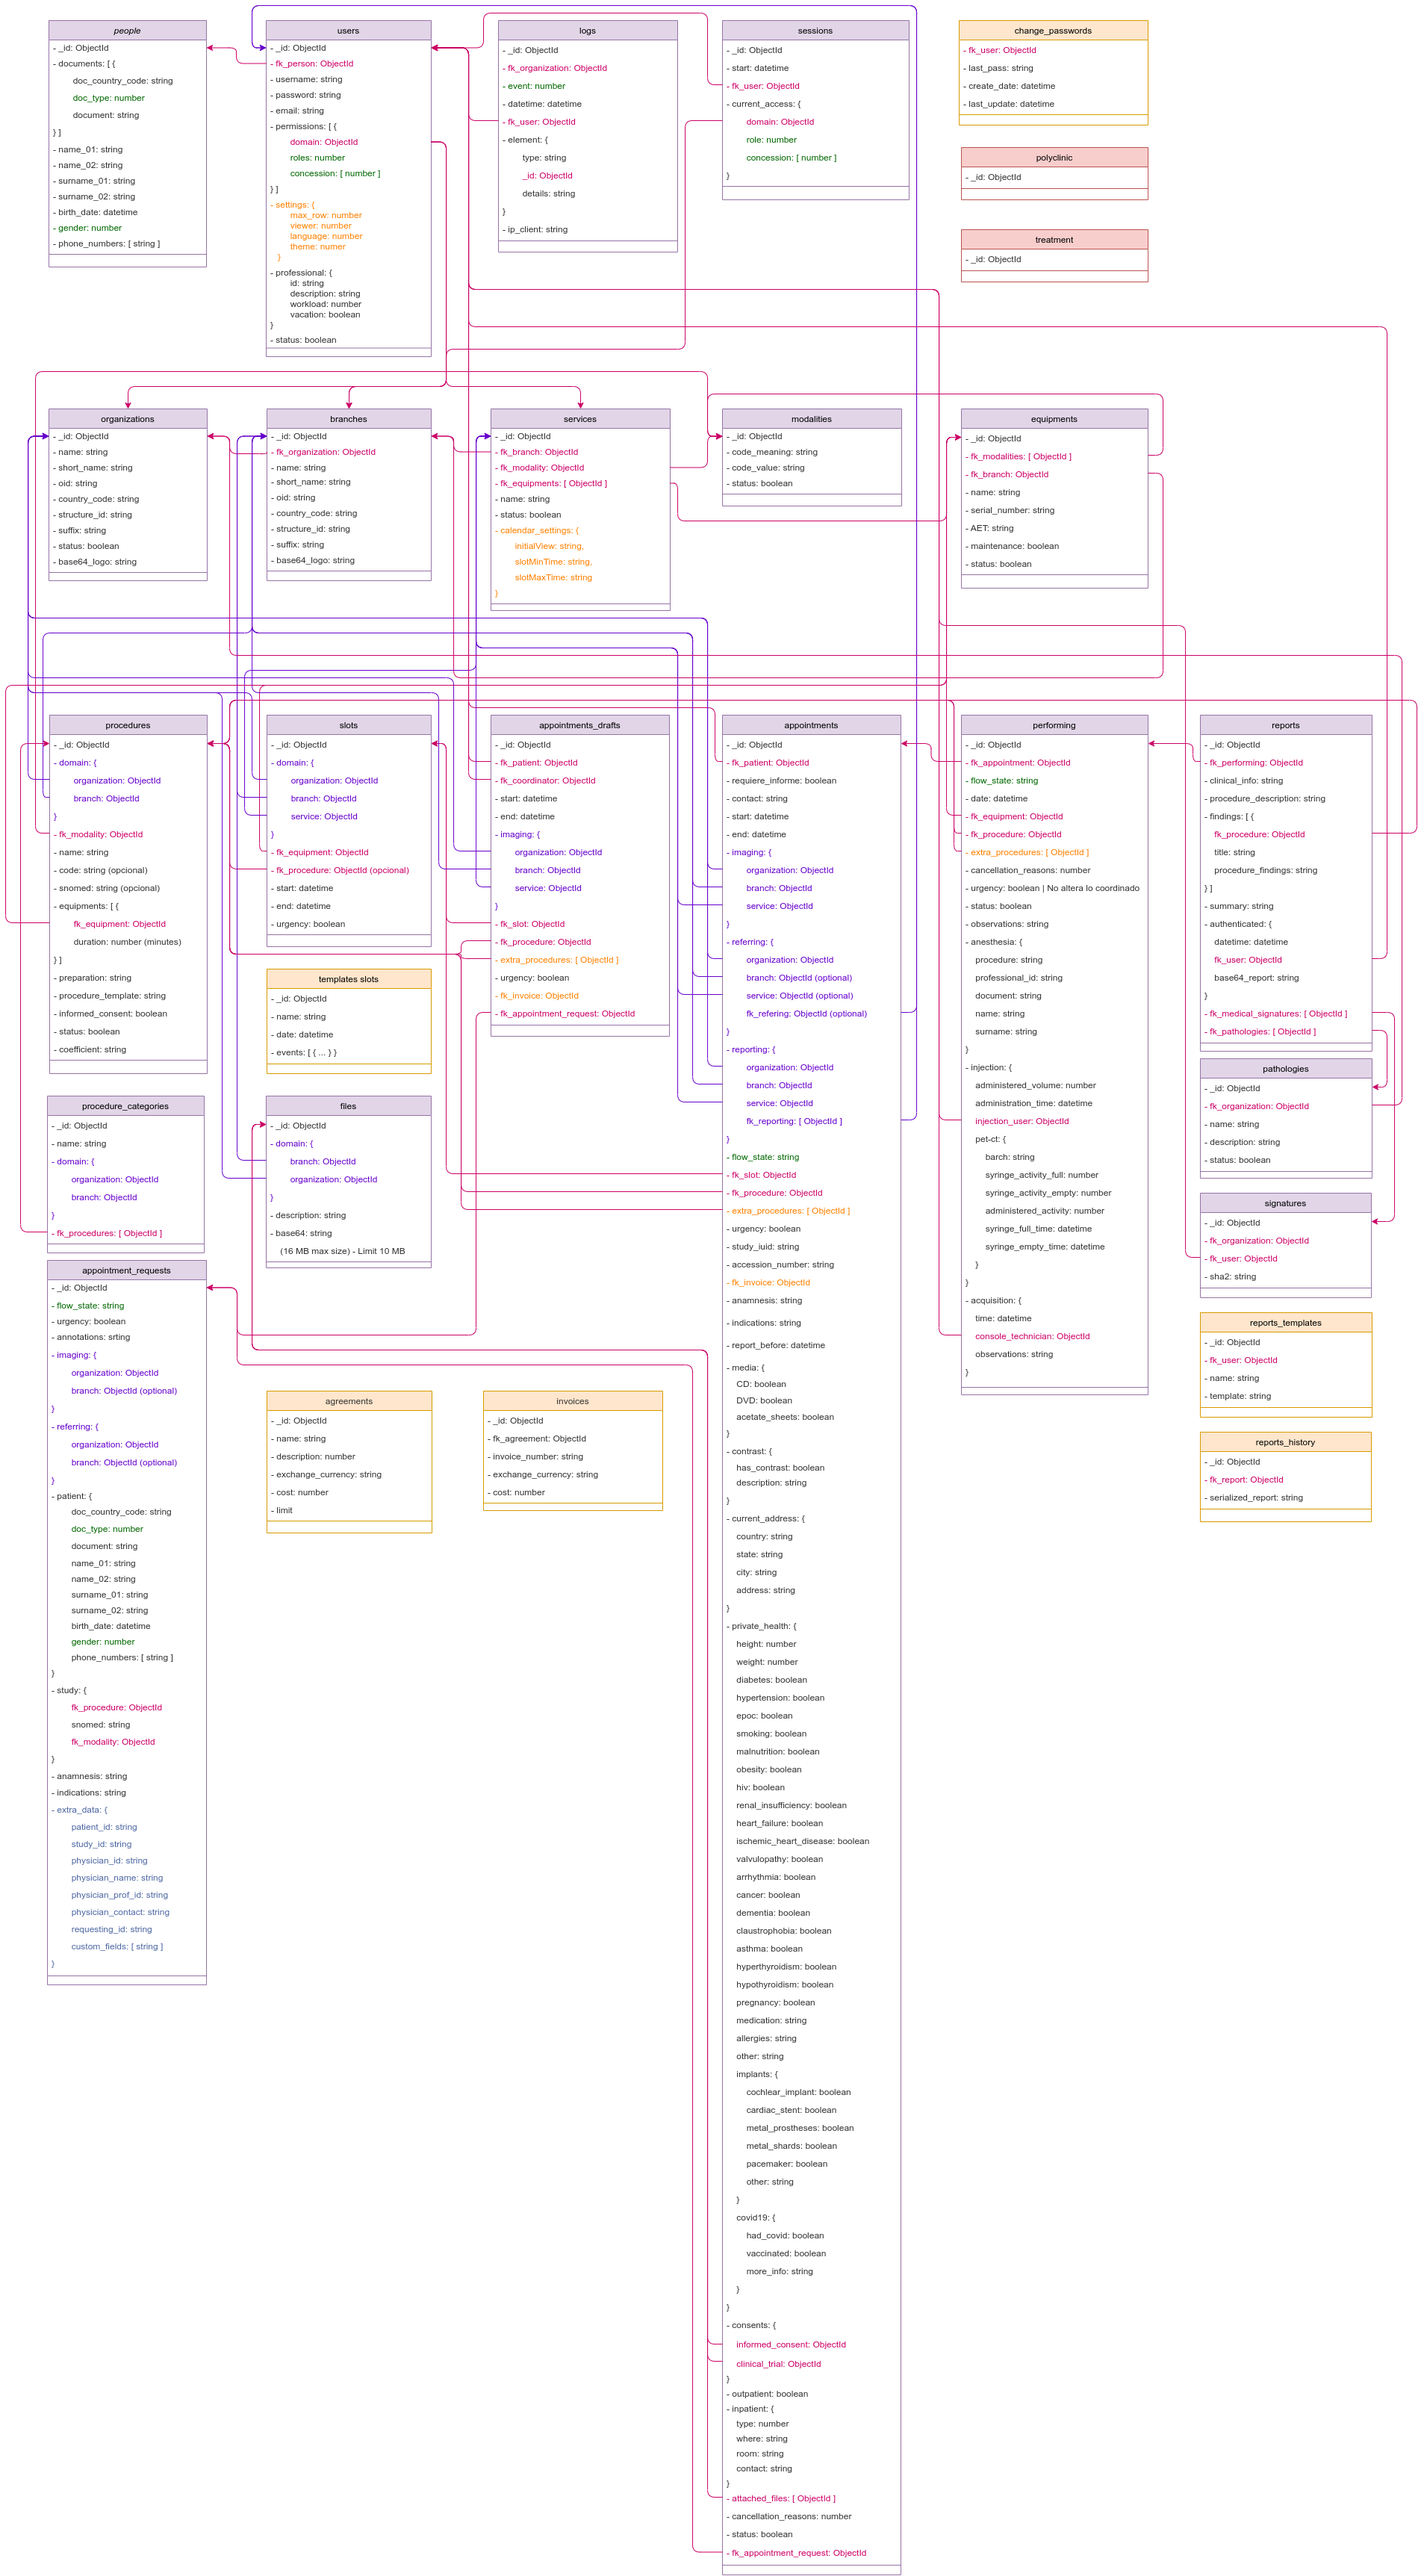
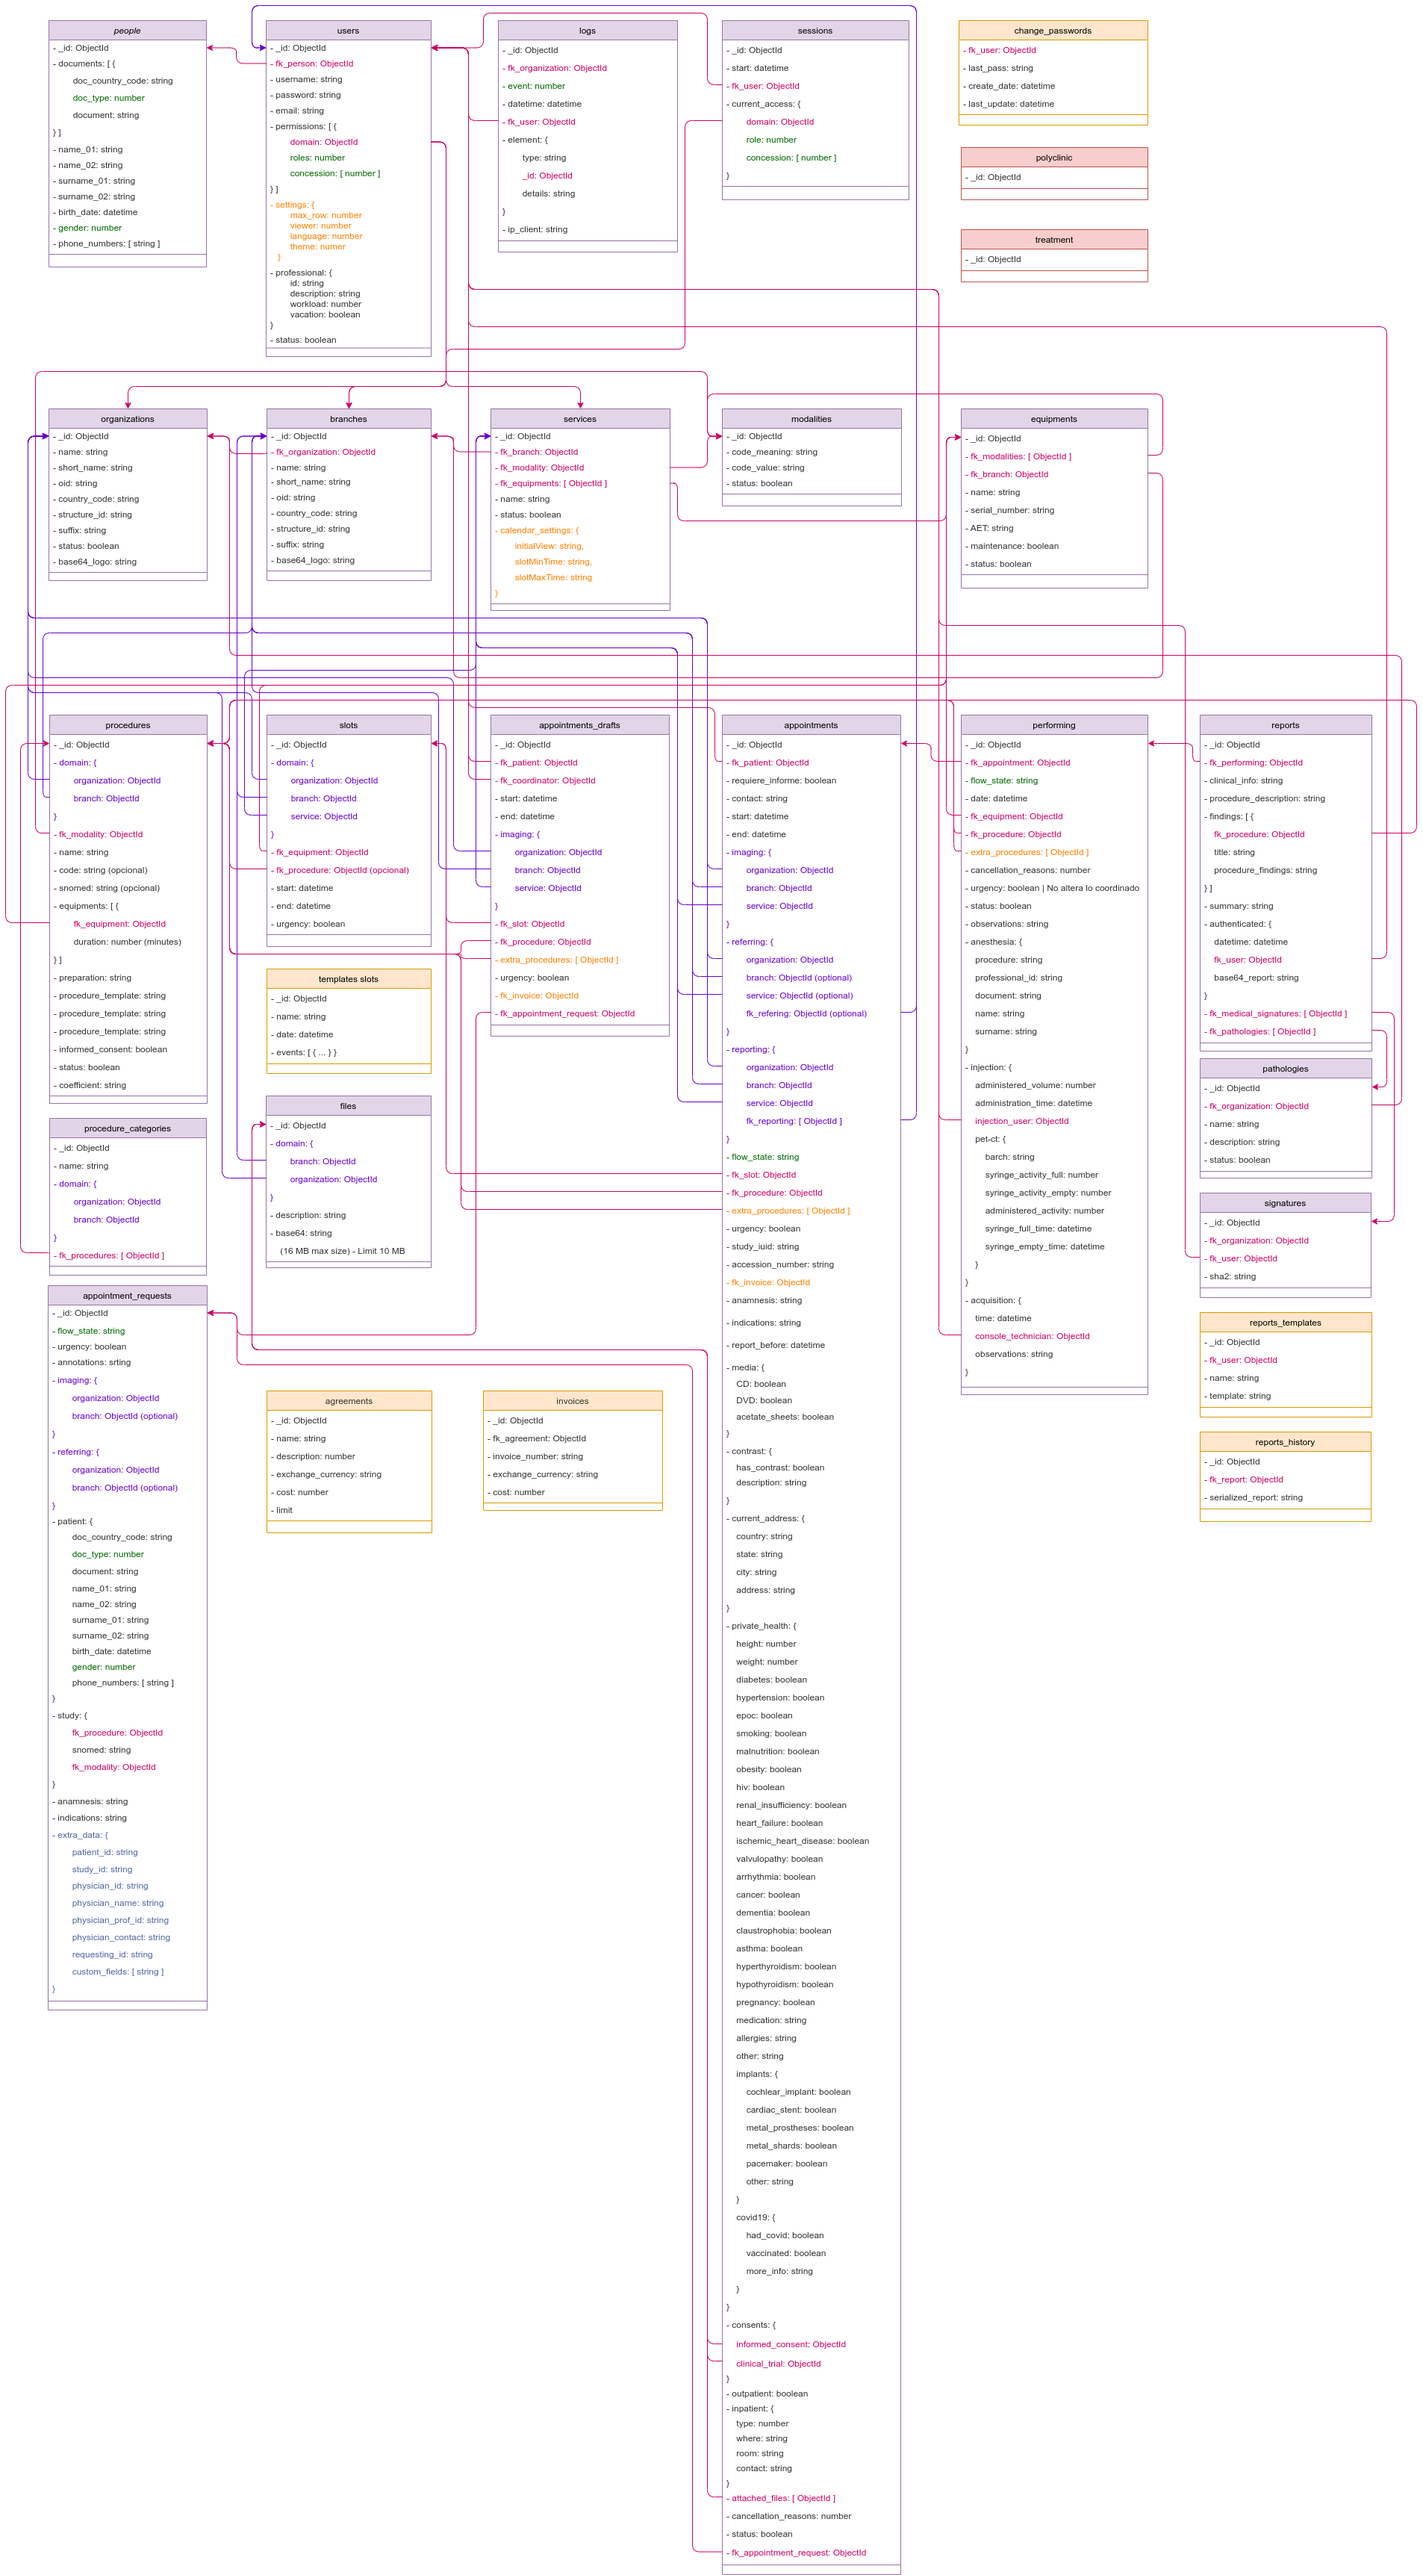
Add report_template and has_interview in procedures [Backend]

diff --git a/backend/src/modules/modules.services.js b/backend/src/modules/modules.services.js
@@ -1071,7 +1071,6 @@ async function checkReferences(_id, schemaName, ForeignKeys, res){
             affectedCollections.push('procedures');
             affectedCollections.push('slots');
             affectedCollections.push('performing');
-            //affectedCollections.push('procedure_templates');
             break;
 
         case 'slots':
@@ -1086,7 +1085,6 @@ async function checkReferences(_id, schemaName, ForeignKeys, res){
             affectedCollections.push('appointments_drafts');
             affectedCollections.push('performing');
             affectedCollections.push('reports');
-            //affectedCollections.push('procedure_templates');
             break;
 
         case 'appointments':
@@ -2040,6 +2038,7 @@ function adjustDataTypes(filter, schemaName, asPrefix = ''){
                 if(filter[asPrefix + 'fk_modality'] != undefined){ filter[asPrefix + 'fk_modality'] = mongoose.Types.ObjectId(filter[asPrefix + 'fk_modality']); };
                 if(filter[asPrefix + 'equipments.fk_equipment'] != undefined){ filter[asPrefix + 'equipments.fk_equipment'] = mongoose.Types.ObjectId(filter[asPrefix + 'equipments.fk_equipment']); };
                 if(filter[asPrefix + 'equipments.duration'] != undefined){ filter[asPrefix + 'equipments.duration'] = parseInt(filter[asPrefix + 'equipments.duration'], 10); }
+                if(filter[asPrefix + 'has_interview'] != undefined){ filter[asPrefix + 'has_interview'] = mainServices.stringToBoolean(filter[asPrefix + 'has_interview']); };
                 if(filter[asPrefix + 'informed_consent'] != undefined){ filter[asPrefix + 'informed_consent'] = mainServices.stringToBoolean(filter[asPrefix + 'informed_consent']); };
                 if(filter[asPrefix + 'coefficient'] != undefined){ filter[asPrefix + 'coefficient'] = parseFloat(filter[asPrefix + 'coefficient']); }
                 if(filter[asPrefix + 'status'] != undefined){ filter[asPrefix + 'status'] = mainServices.stringToBoolean(filter[asPrefix + 'status']); };

diff --git a/backend/src/modules/procedures/schemas.js b/backend/src/modules/procedures/schemas.js
@@ -29,9 +29,12 @@ const Schema = new mongoose.Schema({
     equipments:         { type: [subSchemaAllowedEquipments], required: true },
     preparation:        { type: String },
     procedure_template: { type: String },
+    report_template:    { type: String },
+    has_interview:      { type: Boolean, required: true },
     informed_consent:   { type: Boolean, required: true },
     status:             { type: Boolean, required: true, default: false },
     coefficient:        { type: Number }
+
 },
 { timestamps: true },
 { versionKey: false });
@@ -47,7 +50,7 @@ const ForeignKeys = {
 };
 
 //Register allowed unset values:
-const AllowedUnsetValues = ['code', 'snomed', 'preparation', 'procedure_template'];
+const AllowedUnsetValues = ['code', 'snomed', 'preparation', 'procedure_template', 'report_template'];
 //--------------------------------------------------------------------------------------------------------------------//
 
 //--------------------------------------------------------------------------------------------------------------------//
@@ -112,10 +115,22 @@ const Validator = [
         .isLength({ min: 10, max: 1500 })
         .withMessage('El parametro procedure_template ingresado es demasiado corto o demasiado largo (min: 10, max: 1500 [caracteres]).'),
 
+    body('report_template')
+        .optional()
+        .trim()
+        .isLength({ min: 10, max: 3000 })
+        .withMessage('El parametro report_template ingresado es demasiado corto o demasiado largo (min: 10, max: 3000 [caracteres]).'),
+
     body('informed_consent')
         .trim()
         .isBoolean()
         .withMessage('El parametro informed_consent ingresado no es de tipo booleano (verdadero o falso).')
+        .toBoolean(),
+
+    body('has_interview')
+        .trim()
+        .isBoolean()
+        .withMessage('El parametro has_interview ingresado no es de tipo booleano (verdadero o falso).')
         .toBoolean(),
 
     body('status')
